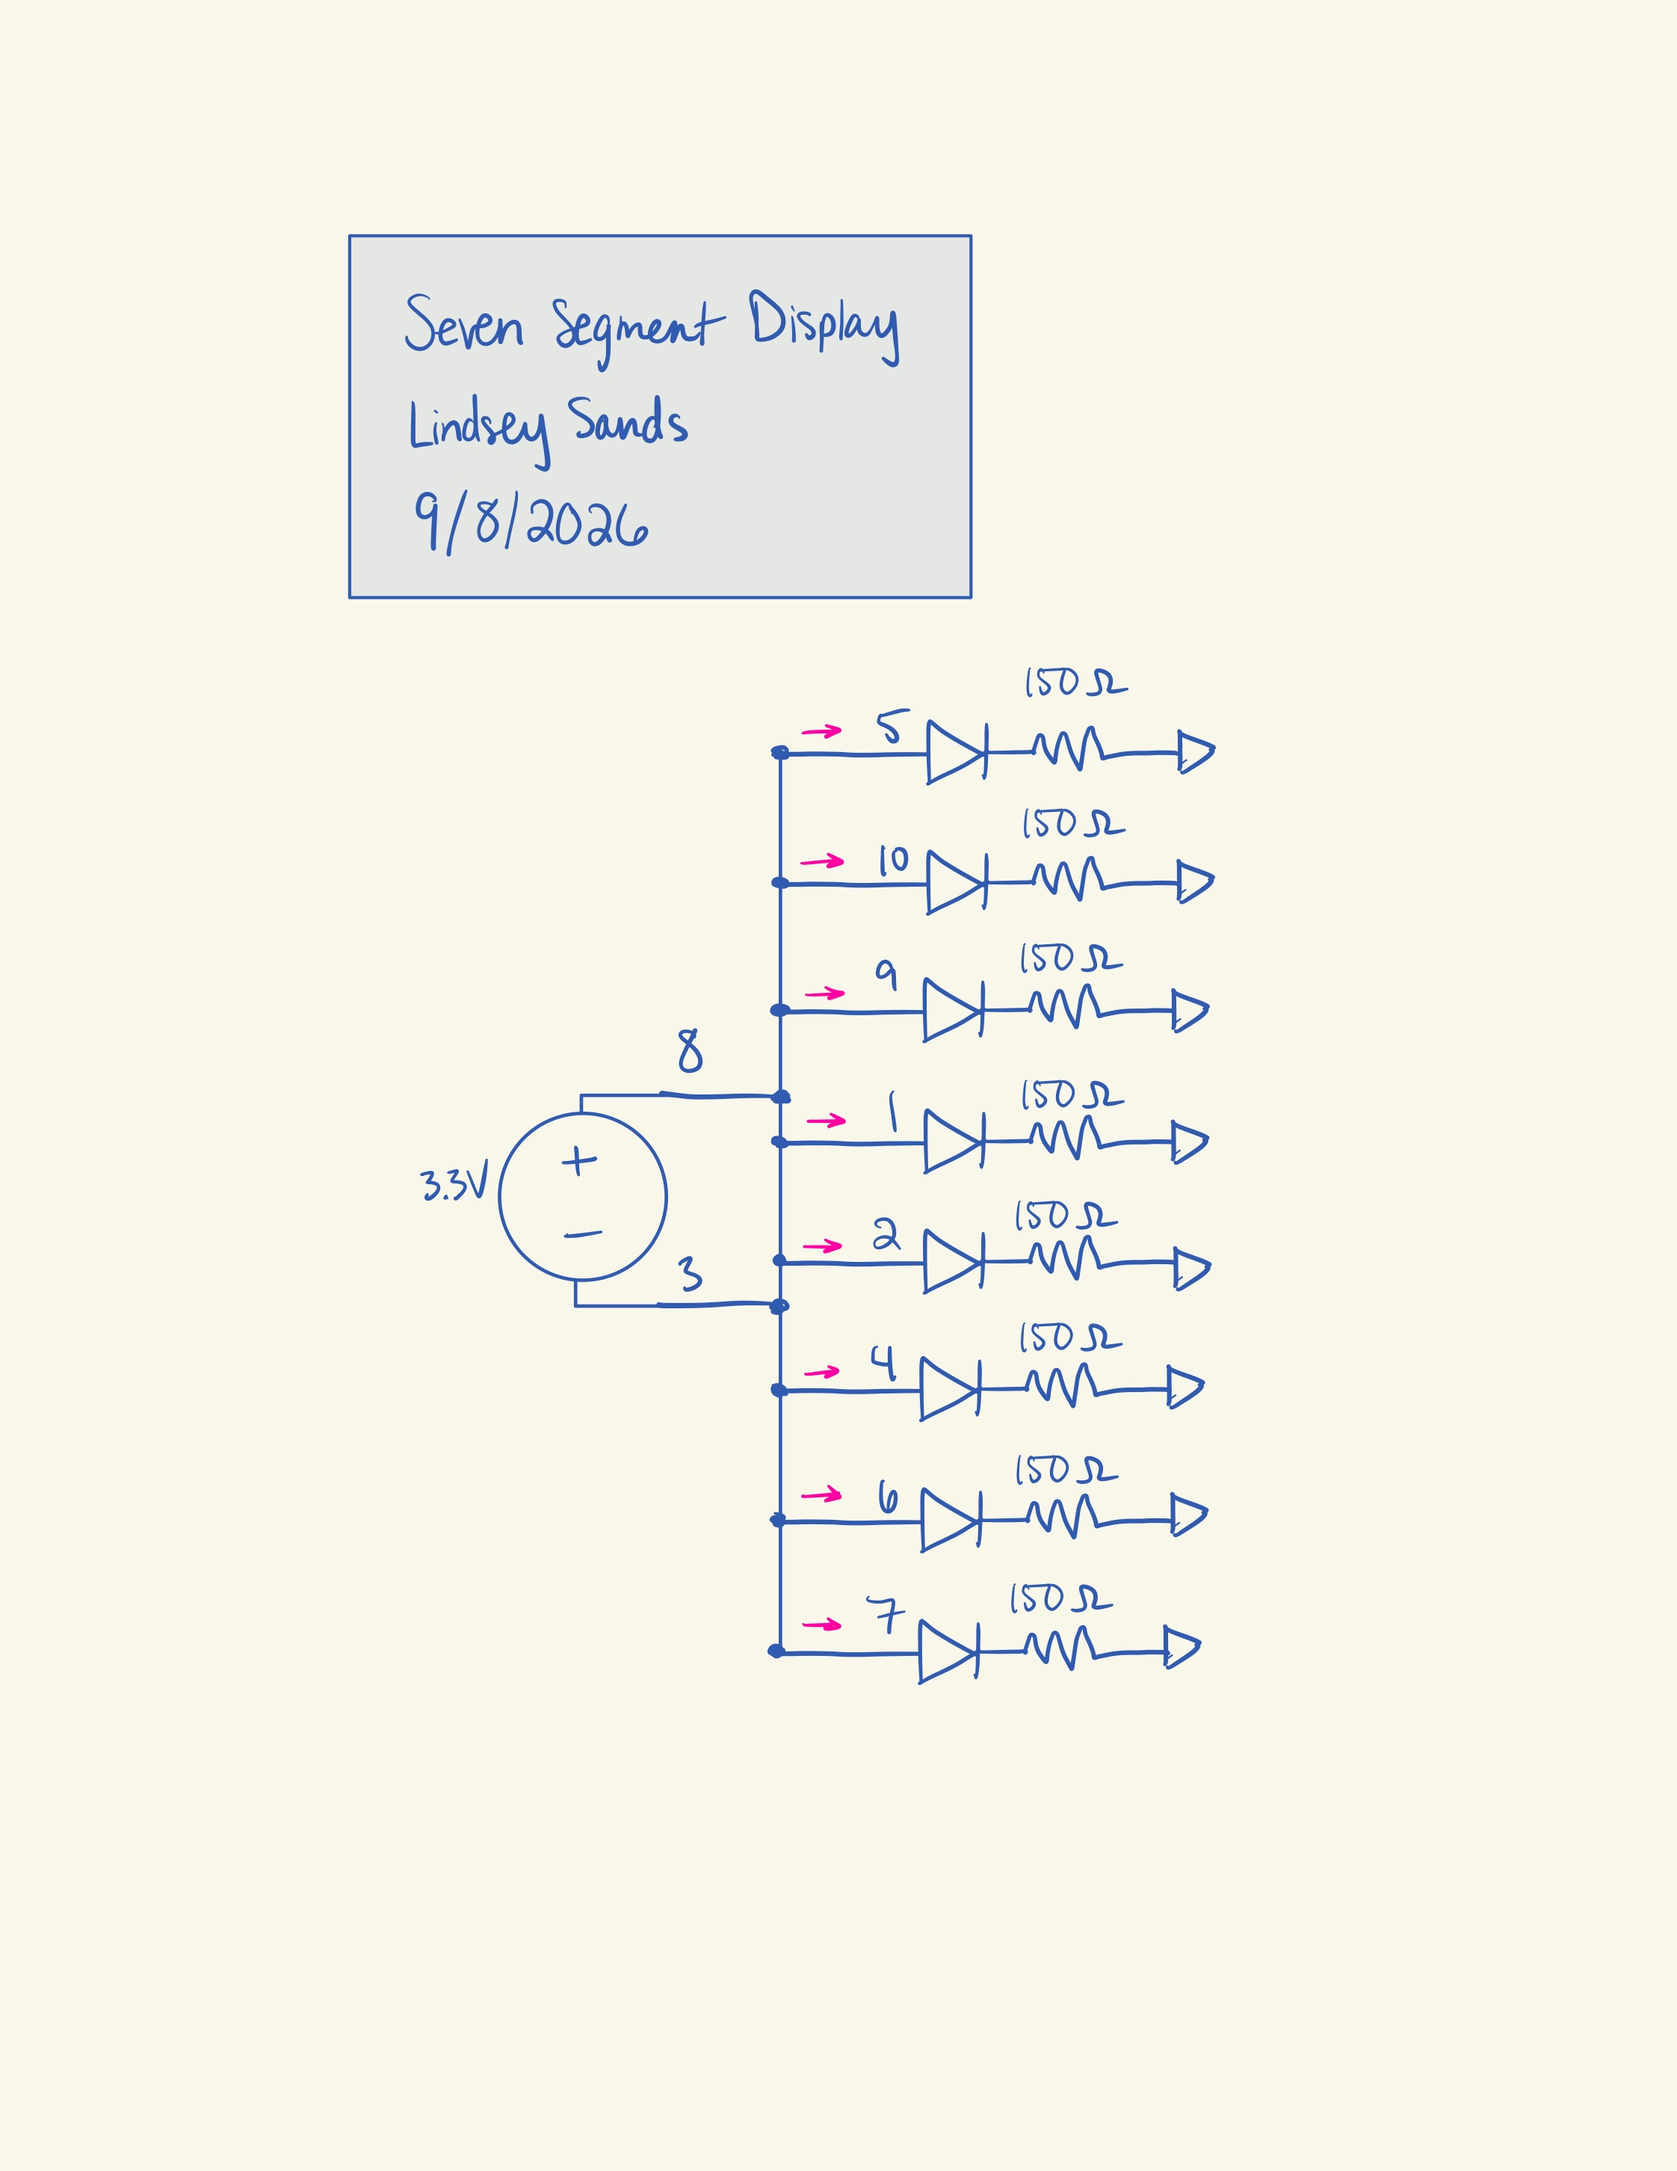
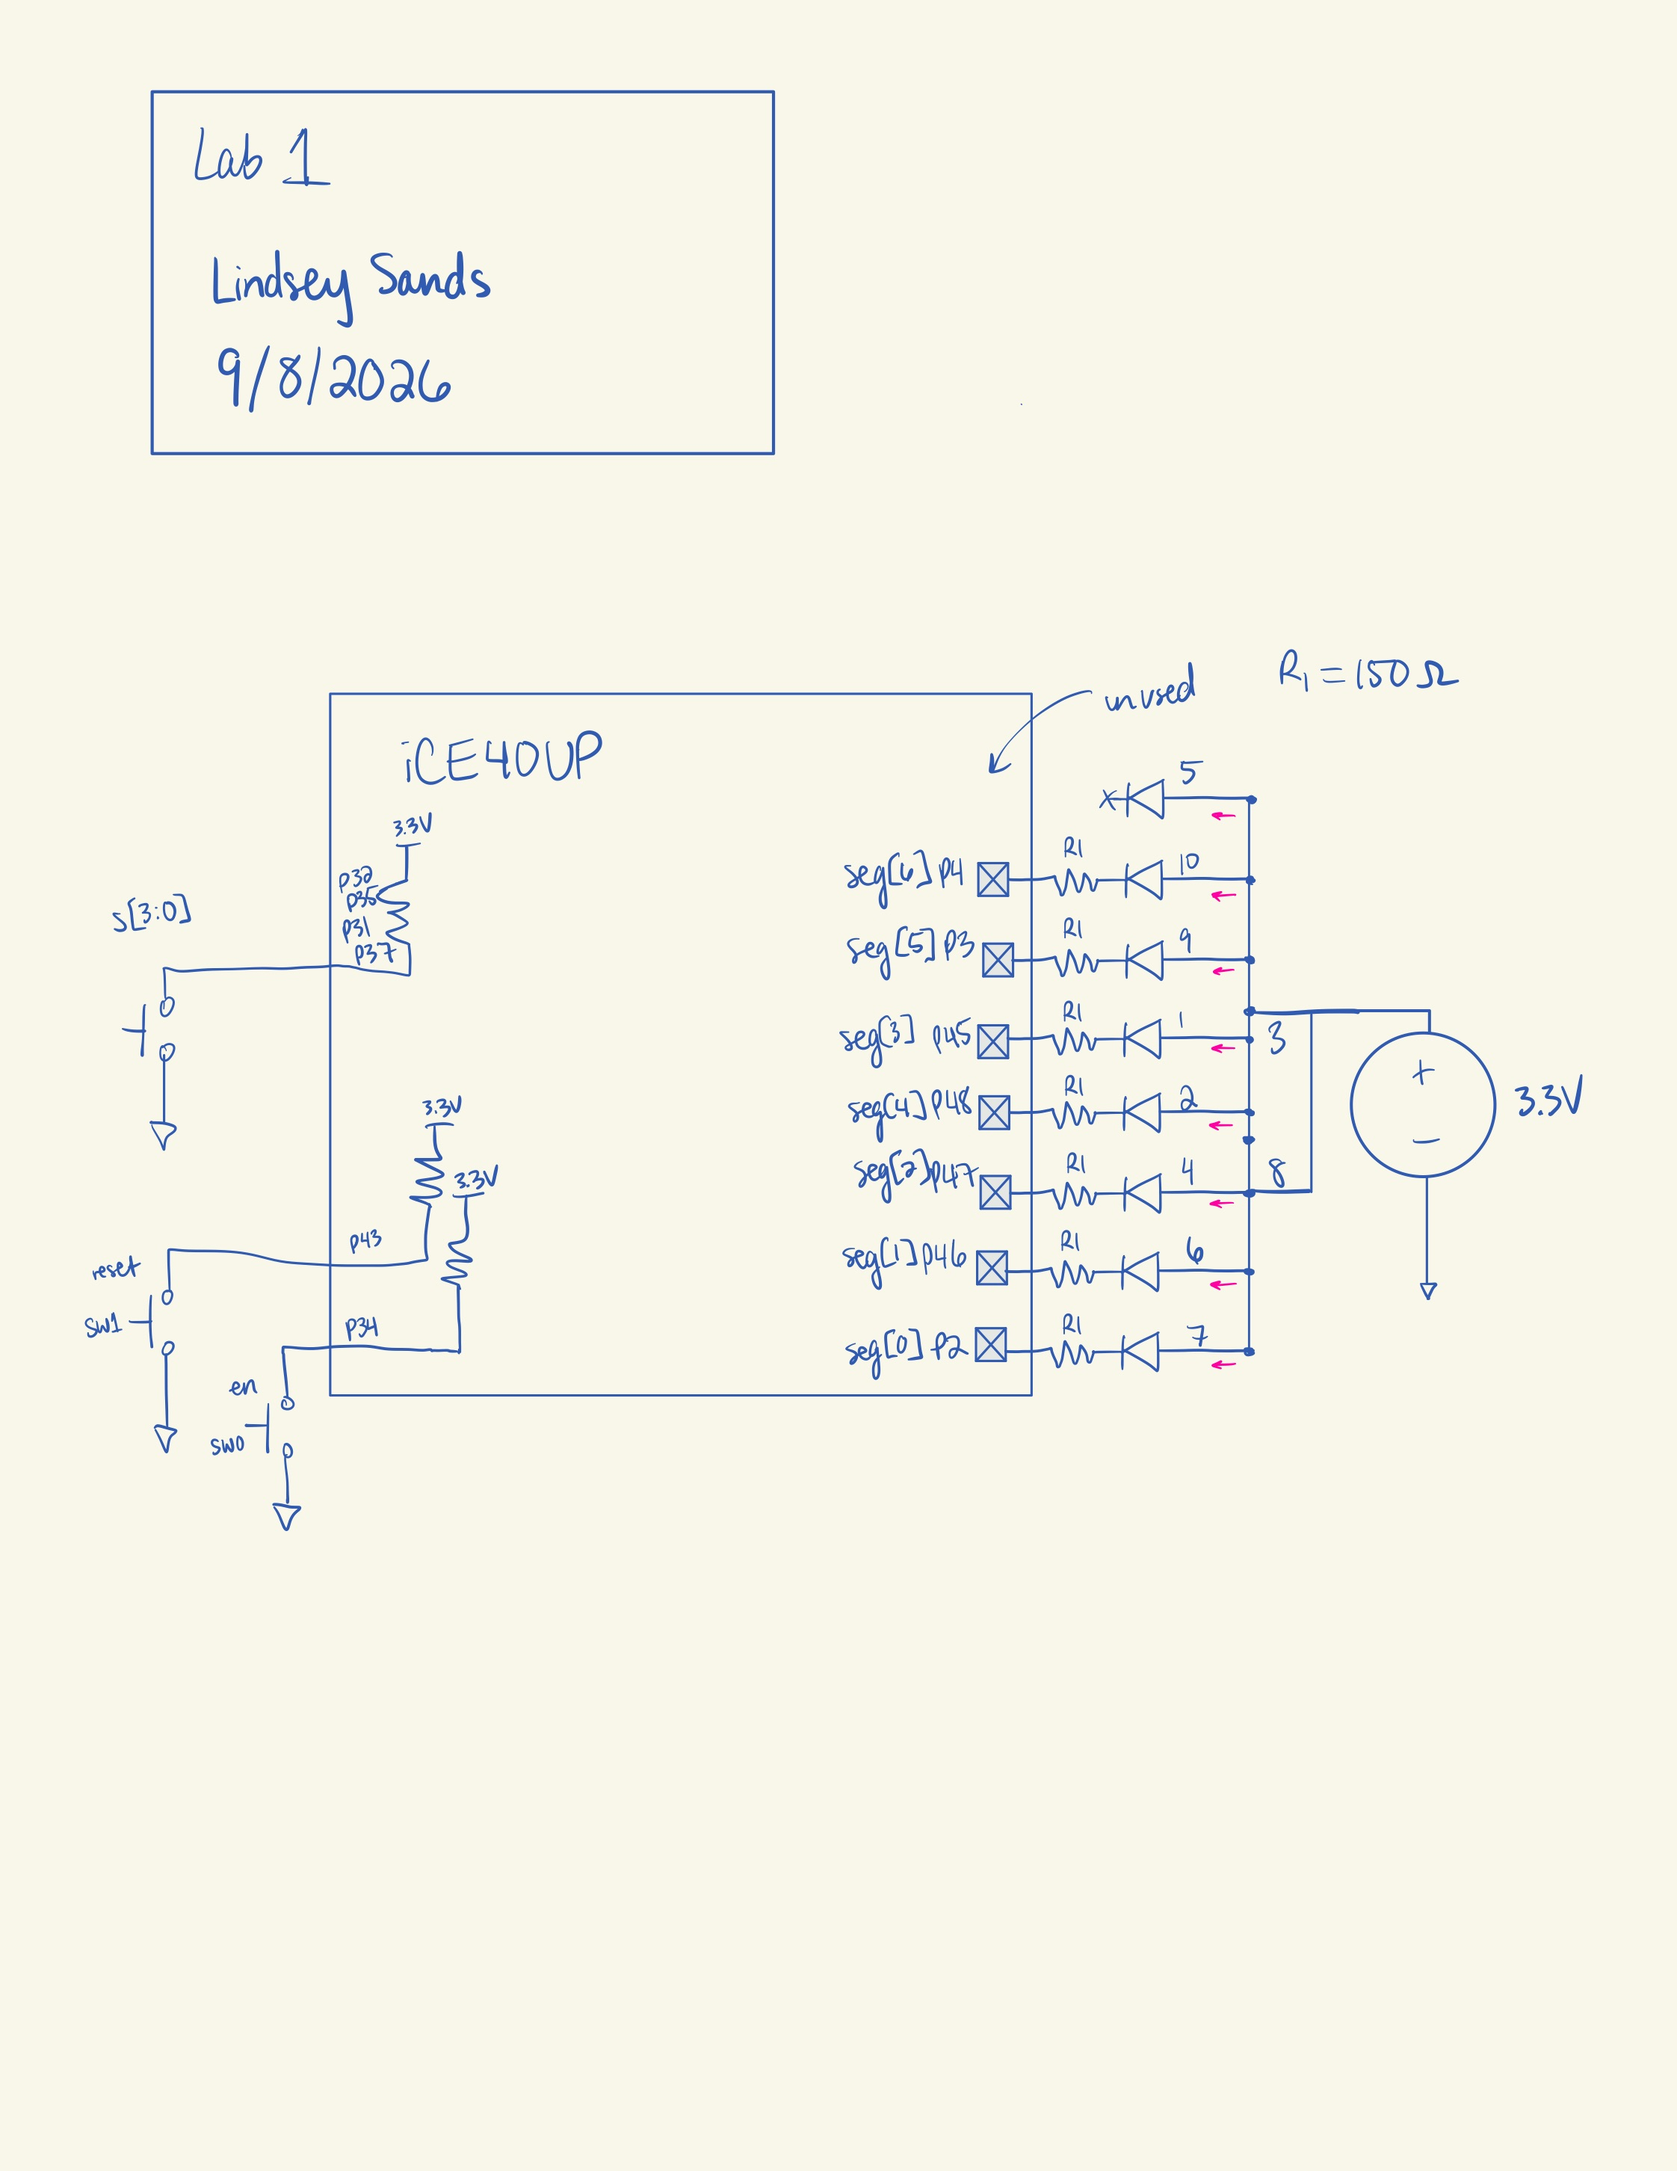
Built site for gh-pages

diff --git a/labs.html b/labs.html
@@ -214,7 +214,7 @@ window.Quarto = {
 
 <div class="quarto-listing quarto-listing-container-default" id="listing-listing">
 <div class="list quarto-listing-default">
-<div class="quarto-post image-right" data-index="0" data-categories="cmVmbGVjdGlvbiUyQ2xhYnJlcG9ydA==" data-listing-date-sort="1788937200000" data-listing-file-modified-sort="1789417236921" data-listing-date-modified-sort="NaN" data-listing-reading-time-sort="18" data-listing-word-count-sort="3475">
+<div class="quarto-post image-right" data-index="0" data-categories="cmVmbGVjdGlvbiUyQ2xhYnJlcG9ydA==" data-listing-date-sort="1788937200000" data-listing-file-modified-sort="1789418037033" data-listing-date-modified-sort="NaN" data-listing-reading-time-sort="18" data-listing-word-count-sort="3475">
 <div class="thumbnail"><a href="./labs/lab1/lab1.html" class="no-external">
 
 <p class="card-img-top"><img loading='lazy' src="labs\lab1\images\led_calc.jpeg"  class="thumbnail-image card-img"/></p>

diff --git a/labs/lab1/lab1.html b/labs/lab1/lab1.html
@@ -491,7 +491,7 @@ end
 <h1>Schematic</h1>
 <div class="quarto-figure quarto-figure-center">
 <figure class="figure">
-<p><img src="images/new_schmatic.jpeg" class="img-fluid figure-img" style="width:80.0%"></p>
+<p><img src="images/schematic.jpeg" class="img-fluid figure-img" style="width:80.0%"></p>
 <figcaption>Figure 4: Schematic</figcaption>
 </figure>
 </div>
